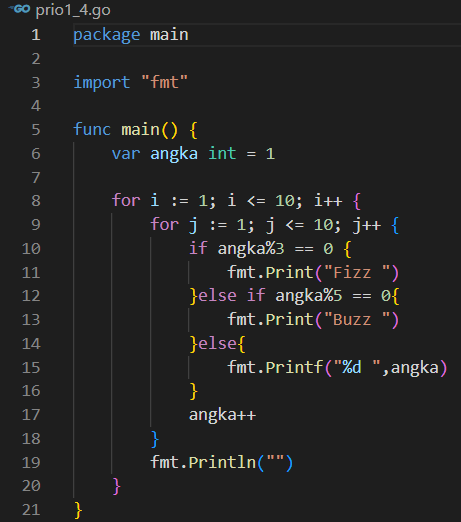
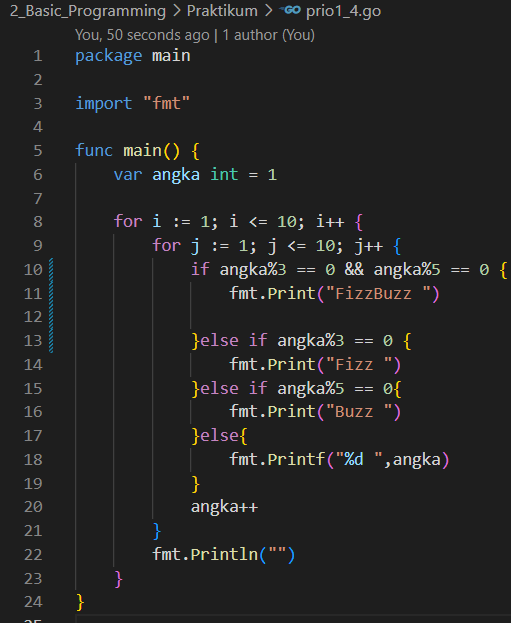
tambahan pertama

diff --git a/2_Basic_Programming/Praktikum/prio1_4.go b/2_Basic_Programming/Praktikum/prio1_4.go
@@ -7,7 +7,10 @@ func main() {
 	
 	for i := 1; i <= 10; i++ {
 		for j := 1; j <= 10; j++ {
-			if angka%3 == 0 {
+			if angka%3 == 0 && angka%5 == 0 {
+				fmt.Print("FizzBuzz ")
+			
+			}else if angka%3 == 0 {
 				fmt.Print("Fizz ")
 			}else if angka%5 == 0{
 				fmt.Print("Buzz ")

diff --git a/3_Version-Control-&-Branch-Management-(Git)/Resume.md b/3_Version-Control-&-Branch-Management-(Git)/Resume.md
@@ -1,0 +1,7 @@
+# Resume - Version control & branch management (git)
+
+ - Versioning merupan cara untuk mengatur versi dari source code program
+ 
+ - tools untuk versioning ada beberapa jenis yaitu: version control system (VCS), Source Code Manager (SCM), Revision Control System
+ 
+ - Git merupakan salah satu versioning control yang terkenal untuk mengembangkan software secara bersama-sama

diff --git a/3_Version-Control-&-Branch-Management-(Git)/Praktikum/prio1.md b/3_Version-Control-&-Branch-Management-(Git)/Praktikum/prio1.md
@@ -1,0 +1,2 @@
+1. membuat repository dengan nama go_yusuf-fitriyanto
+2. membuat semua folder tugas samapi rest api setiap folder terdapat folder patikum, sceenshots dan resume.md, kemudian melakukan commit submit tugas 2.

diff --git a/3_Version-Control-&-Branch-Management-(Git)/Praktikum/prio2.md b/3_Version-Control-&-Branch-Management-(Git)/Praktikum/prio2.md
@@ -1,0 +1,3 @@
+1. membuat branch baru dengan nama tambah
+2. kemudain menabahakan file baru
+3. melakukan pull request
